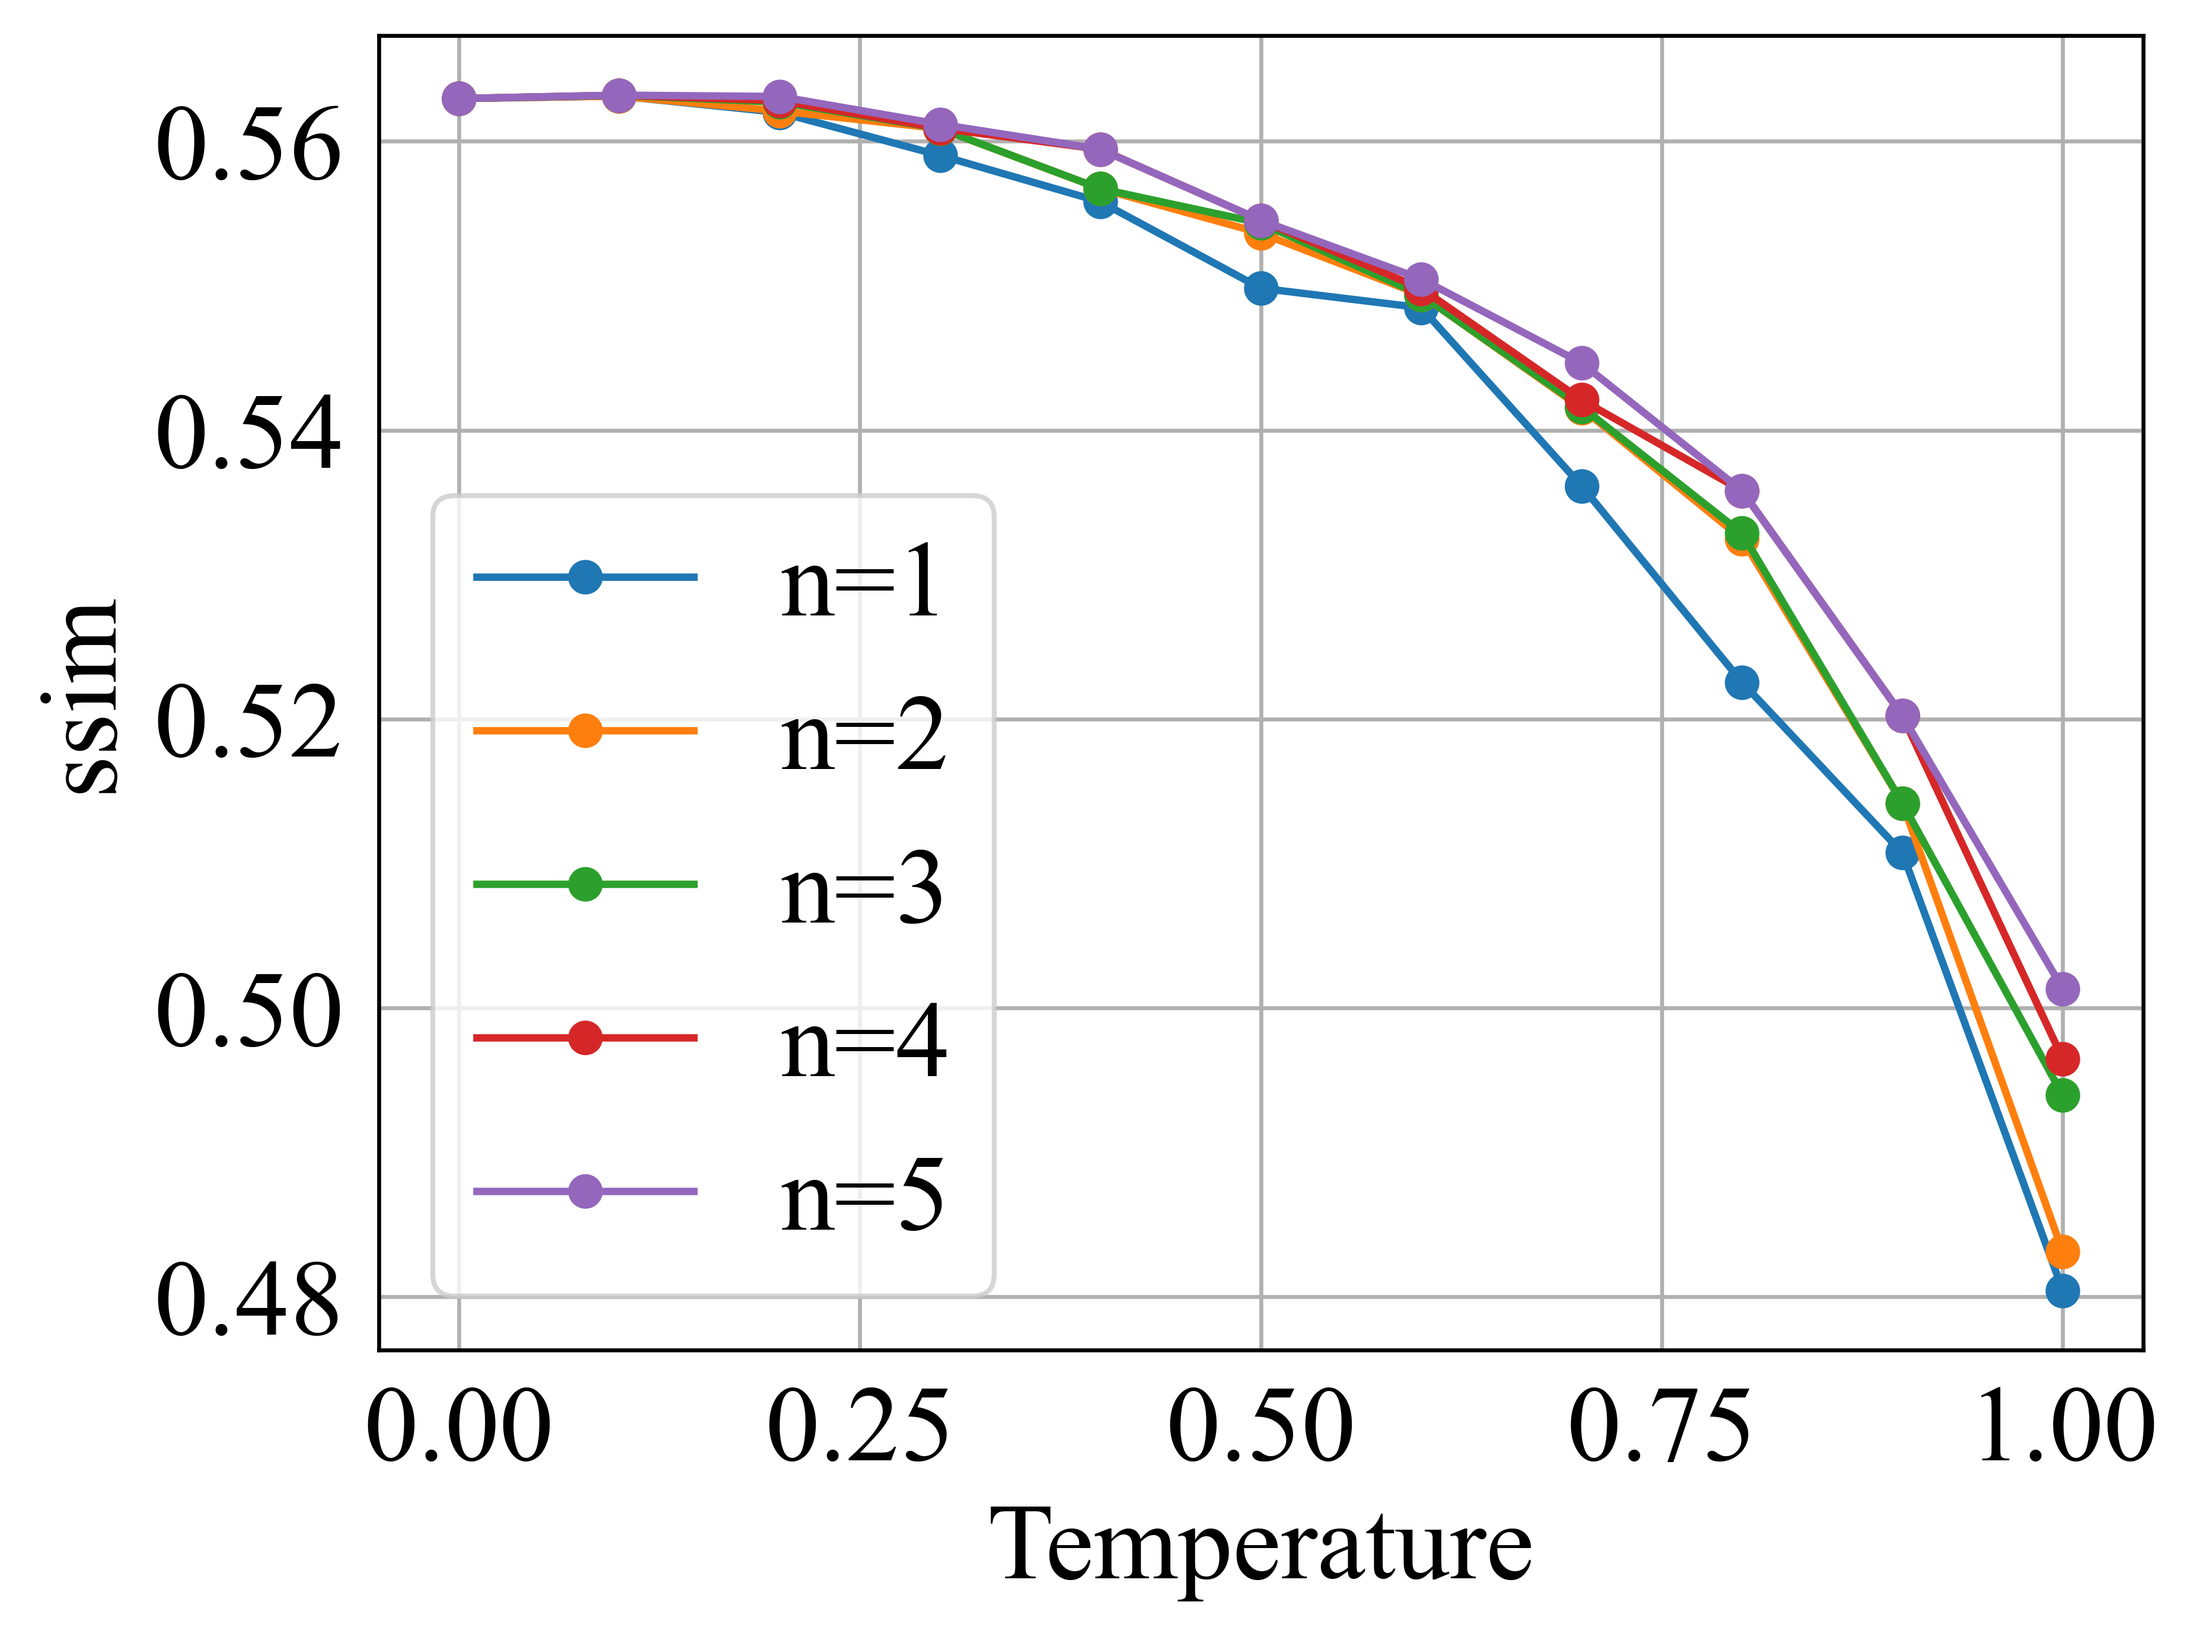
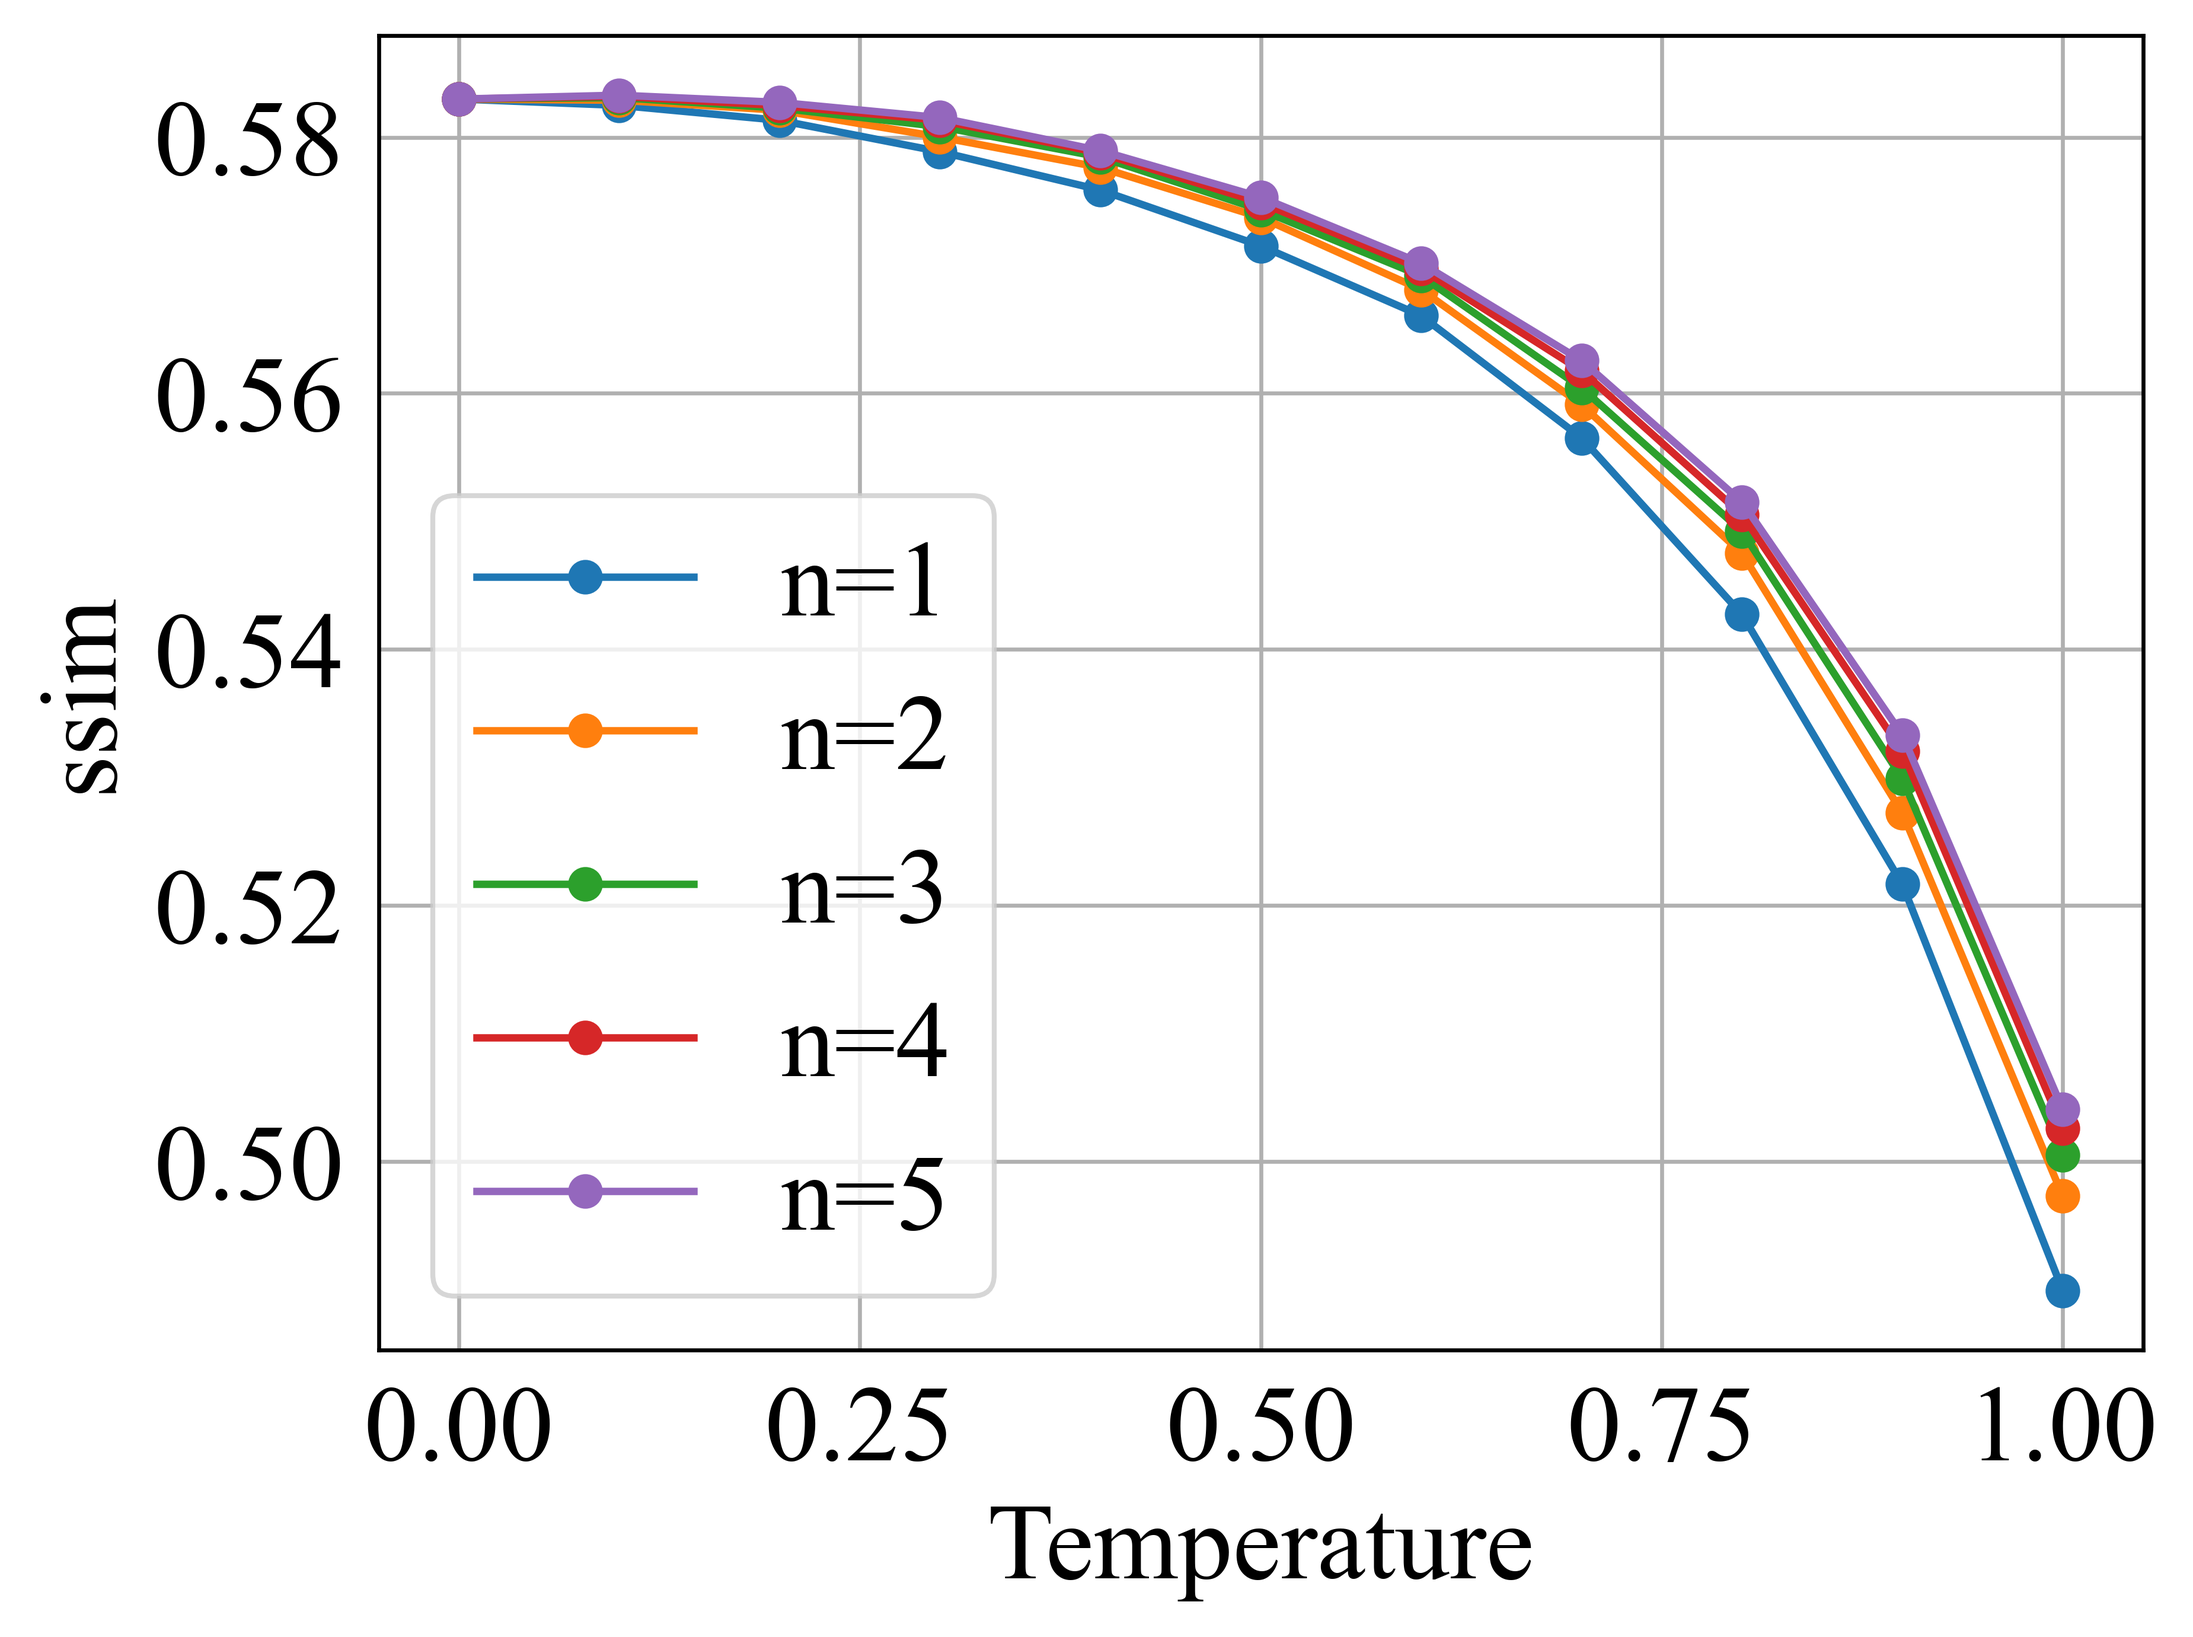
repo before trials on div2k dataset

diff --git a/code/best_outa_n.py b/code/best_outa_n.py
@@ -435,6 +435,26 @@ def runTests():
     runSaveDfsTest()
     runCalcRunningAvgTest()
 
+
+def generateCurvesMain():
+    analysis = Analysis(conf_path,dataroot_lr, dataroot_gt)
+    root_path = './data/validation/'
+    save_path_dict = {'temperature': {
+        'psnr': root_path + 'temp-psnr.png',
+        'ssim': root_path + 'temp-ssim.png',
+        'lpips': root_path + 'temp-lpips.png'
+    }, 'lpips': {
+        'psnr': root_path + 'lpips-psnr.png',
+        'ssim': root_path + 'lpips-ssim.png'
+    }, 'psnr': {
+        'ssim': root_path + 'psnr-ssim.png'
+    }
+    }
+    analysis.generateGraphsFromCSVs(df_averages_save_path_psnr,
+                                    df_averages_save_path_ssim,
+                                    df_averages_save_path_lpips,
+                                    save_path_dict)
+
 if __name__ == '__main__':
     # best_out_of_n_analysis(3)
     # generateOldNewGraphsAll()
@@ -442,4 +462,4 @@ if __name__ == '__main__':
     #runTests()
     #runCalcRunningAvgTest()
     #endToEndTest()
-    generateCurvesTest()
+    generateCurvesMain()

diff --git a/code/srflow_div2k.py b/code/srflow_div2k.py
@@ -1,0 +1,5 @@
+"""
+Experimentation with the div2k dataset
+"""
+
+conf_path = './confs/SRFlow_DF2K_8X.yml'
